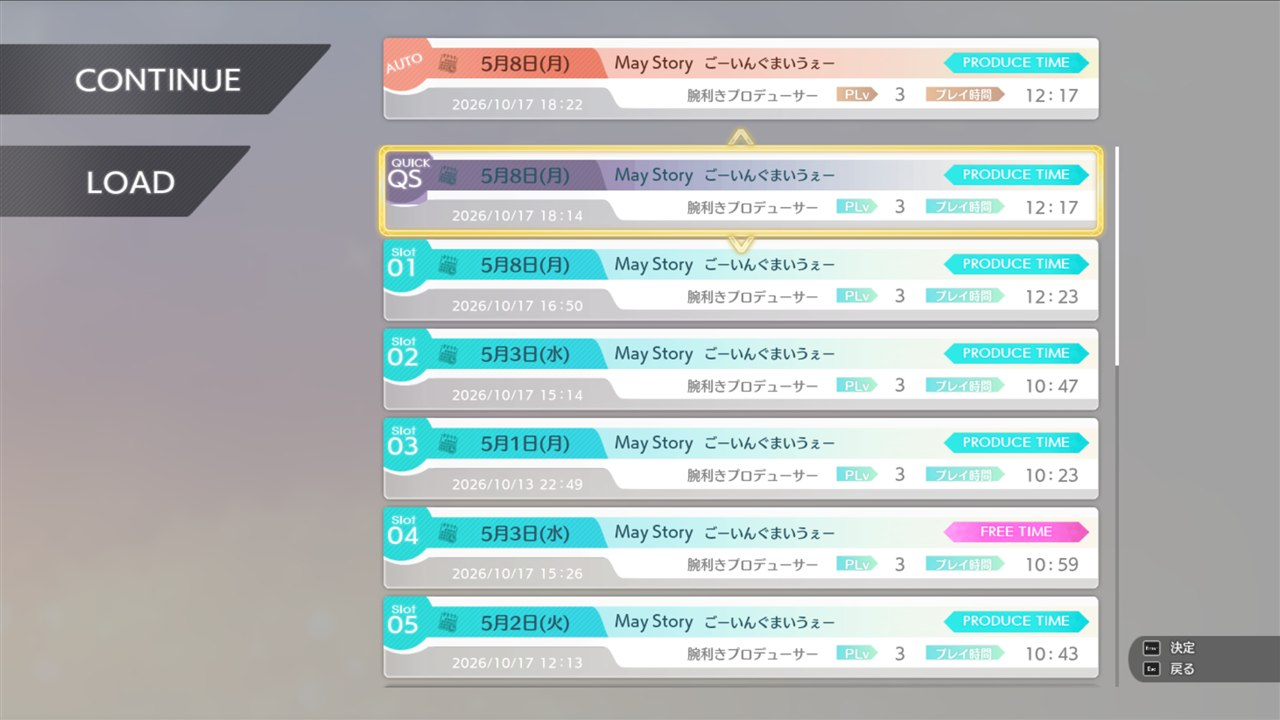
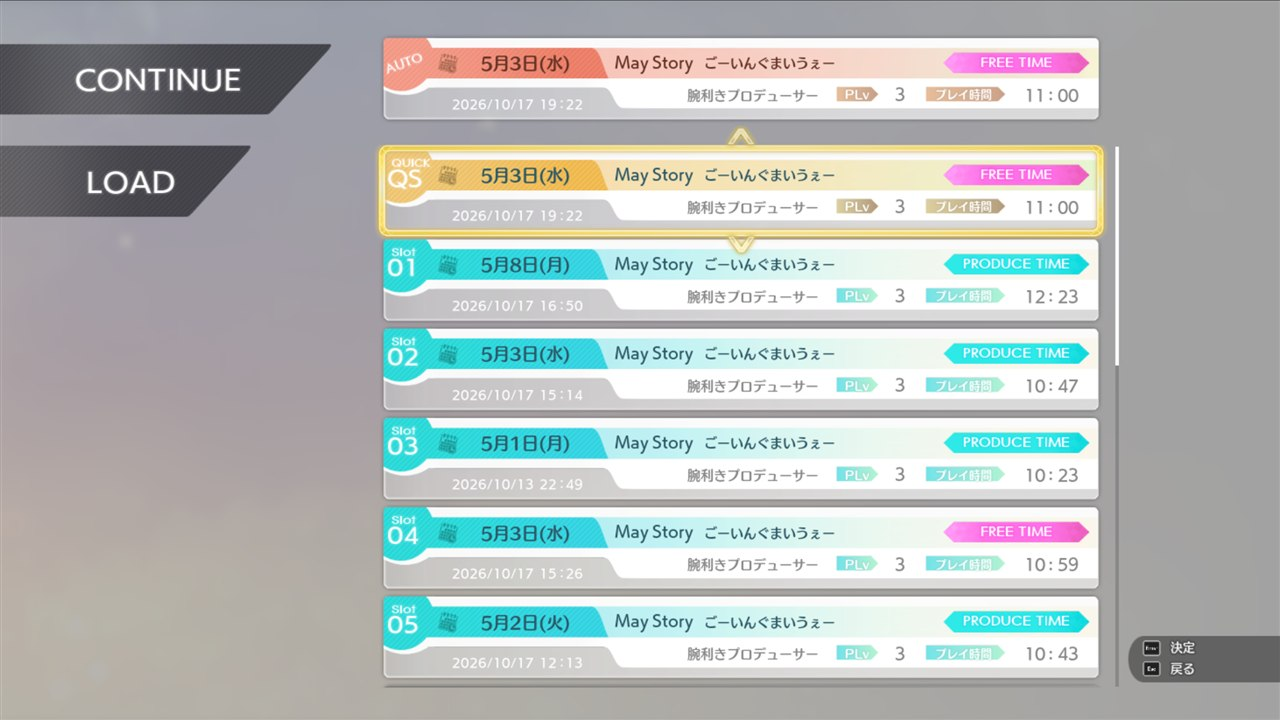
F5 / F6 outside dialogues; QUICK row in the game's own gold style
- On the home and map screens F5 / F6 go through the scene's own SYSTEM
  menu (SYSTEM button, セーブ / ロード, QUICK slot, then the menu's own
  cancel), so the game decides where saving is allowed and restores the
  scene's input itself. The SYSTEM menu stays transparent meanwhile.
- The QUICK row uses one of the game's row styles (the switch that gives
  AUTO its look) instead of drawn overlays, so its textures, gradient and
  shape are the game's.
- QUICK row attaches once the player controller exists (title screen).
- README describes features only.

Changed region(s): [[0.2812, 0.2139, 0.875, 0.3056], [0.7188, 0.0611, 0.875, 0.1528], [0.4062, 0.0611, 0.4375, 0.0917]]

diff --git a/mods/DialogueMenu/README.md b/mods/DialogueMenu/README.md
@@ -1,34 +1,34 @@
-# Save / load in dialogue (DialogueMenu)
+# Save / load enhancement (DialogueMenu)
 
 Windows Steam v1.61 only, loaded by UE4SS 3.0.1-1170.
 
 ## Features
 
 - The dialogue menu (Esc / gamepad menu button) gets **SAVE / LOAD** above 戻る (Back). They open the game's own
-  save / load screens; when you return, the menu is left as it was, cursor on the same item.
-  The buttons use the game's button widget, cursor sound and keyboard / gamepad / mouse handling.
-- A separate **QUICK** slot shown under AUTO. It never overwrites AUTO or slots 01–15.
-- In a dialogue, **F5** saves to QUICK and **F6** loads QUICK, also while the dialogue menu is open.
+  save / load screens and use the game's button widget, cursor sound and keyboard / gamepad / mouse handling.
+- A separate **QUICK** slot under AUTO, shown in the game's gold row style. It never overwrites AUTO or slots 01–15.
+- **F5** saves to QUICK, **F6** loads QUICK:
+  - in a dialogue (also while the dialogue menu is open);
+  - on the home and map screens, through the game's SYSTEM menu, so the game decides whether saving is allowed there.
 - QUICK also appears on the game's other save / load screens (title LOAD, SYSTEM menu).
-
-### Where a dialogue save resumes
-
-A manual save inside a dialogue would normally resume at the start of the current phase's previous step
-(for example PRODUCE TIME while the dialogue is in FREE TIME). The game takes an AUTO checkpoint when a dialogue starts,
-which is the latest point the game can resume from. Saves made from a dialogue (menu SAVE or F5) therefore store a copy
-of that checkpoint in the chosen slot. Dialogue progress inside the scene itself cannot be saved by the game.
+- A save made during a dialogue resumes from the checkpoint the game takes when the dialogue starts
+  (progress inside the scene itself cannot be saved by the game).
 
 ## Implementation
 
-- `Scripts/main.lua`: menu buttons, QUICK row (inserted below AUTO, tinted, labelled QS), navigation order
-  AUTO → QUICK → 01 …, F5 / F6, and returning to the dialogue menu. All Unreal calls run on one game-thread timer or in hooks.
+- `Scripts/main.lua`: menu buttons, QUICK row (inserted below AUTO, labelled QS, using the row style switch the game
+  uses for its own rows), navigation order AUTO → QUICK → 01 …, and F5 / F6.
+  Outside a dialogue, F5 / F6 call the scene's own SYSTEM button (`OnClickedSystem` / `OnClickSystem`), choose
+  セーブ / ロード in the SYSTEM menu (`OnClickedCursor`), pick QUICK, and close the menu with its `OnCancel`.
+  All Unreal calls run on one game-thread timer or in hooks.
 - `native/dialogue-menu-native.c` → `DialogueMenu.dll`:
-  - opens the game's save / load screen over a dialogue and pauses / resumes the dialogue;
-  - restores the dialogue's pause state and input mode when that screen closes (it clears them);
+  - opens the game's save / load screen over a dialogue and pauses / resumes the dialogue, restoring its pause state
+    and input mode when that screen closes;
   - saves live in `MasterSaveData.GameSaveDataObjects` keyed by name (`slot0` = AUTO, `slot1`–`slot15`).
     The DLL appends `slotQuick` (index 16) to the game's slot-name table and adds a native slot row, so the QUICK slot's
     display, saving, loading and overwrite prompts all run through the game's own code and live in `MasterSave.sav`;
-  - after a save made from a dialogue, stores the AUTO checkpoint under that slot through the game's own save function.
+  - after a save made from a dialogue, stores the dialogue's start checkpoint under that slot through the game's own
+    save function.
   - Every native entry point is checked against its first bytes before use; a different game build is refused.
 - After uninstalling, the `slotQuick` entry stays in the save file; the game ignores it and other saves are unaffected.
 

diff --git a/README.md b/README.md
@@ -9,21 +9,20 @@ For **Windows / Steam version 1.61**.
 | Mod | What it does |
 | --- | --- |
 | Dialogue auto / manual toggle | Press gamepad Y / Triangle or keyboard A in a dialogue to switch auto-advance; the state shows in the game's own guide bar. Maintained in [its own repository](https://github.com/AlphaBoom/starlit-season-text-auto-toggle). |
-| Save / load in dialogue | SAVE / LOAD in the dialogue menu, a separate QUICK save slot under AUTO, F5 quick save and F6 quick load. See [details](mods/DialogueMenu/README.md). |
+| Save / load enhancement | SAVE / LOAD in the dialogue menu, a separate QUICK save slot under AUTO, F5 quick save and F6 quick load. See [details](mods/DialogueMenu/README.md). |
 | DLC unlock (off by default) | Uses [SmokeAPI](https://github.com/acidicoala/SmokeAPI) 4.1.3. Turn it on in the manager. |
 
 ## Features
 
 **Save and load from the dialogue menu.** The game's dialogue menu (Esc / gamepad menu button) gets SAVE and LOAD
-above 戻る (Back). They open the game's own save / load screens, and the menu is left exactly as it was when you return.
-A save made during a dialogue stores the latest saveable point (the checkpoint taken when the dialogue started,
-for example FREE TIME), not the previous phase.
+above 戻る (Back), opening the game's own save / load screens. A save made during a dialogue resumes from the
+checkpoint the game takes when the dialogue starts.
 
 ![SAVE / LOAD in the dialogue menu](docs/images/pause-menu.jpg)
 
-**A separate QUICK slot.** QUICK sits right below AUTO and never overwrites AUTO or slots 01–15.
-In a dialogue, **F5** saves to QUICK and **F6** loads QUICK (also while the menu is open).
-QUICK also appears on the title screen's LOAD and on the game's other save / load screens.
+**A separate QUICK slot.** QUICK sits right below AUTO, in the game's gold row style, and never overwrites AUTO or
+slots 01–15. **F5** saves to QUICK and **F6** loads QUICK: in dialogues, and on the home and map screens wherever the
+game's SYSTEM menu offers saving. QUICK also appears on the title screen's LOAD and the game's other save / load screens.
 
 ![Load screen: the QUICK slot below AUTO](docs/images/quick-slot.jpg)
 

diff --git a/README_zh.md b/README_zh.md
@@ -15,13 +15,13 @@
 ## 功能一览
 
 **对话菜单里的存读档。** 对话中按 Esc（手柄菜单键）打开的原生菜单，在「戻る」上方多了 SAVE / LOAD，
-进入游戏原生的存档 / 读档界面，返回后菜单保持原样。对话中存档会保存到最近的可存档节点
-（对话开始时的检查点，例如 FREE TIME），不会退回到上一个阶段。
+进入游戏原生的存档 / 读档界面。对话中的存档从该对话开始时游戏记录的检查点继续。
 
 ![对话菜单中的 SAVE / LOAD](docs/images/pause-menu.jpg)
 
-**独立的 QUICK 存档位。** QUICK 位在 AUTO 下方，和 AUTO、Slot 01–15 互不覆盖。对话中 **F5** 直接存到 QUICK，
-**F6** 直接读取 QUICK（菜单打开时也可以用）。标题画面的 LOAD、游戏内的存读档界面也能看到并手动使用它。
+**独立的 QUICK 存档位。** QUICK 位在 AUTO 下方，使用游戏自带的金色存档样式，和 AUTO、Slot 01–15 互不覆盖。
+**F5** 存到 QUICK、**F6** 读取 QUICK：对话中可用，Home 和地图界面上只要游戏的 SYSTEM 菜单允许存档也可用。
+标题画面的 LOAD、游戏内的存读档界面也能看到并手动使用它。
 
 ![读档界面：AUTO 下方的 QUICK 存档位](docs/images/quick-slot.jpg)
 
